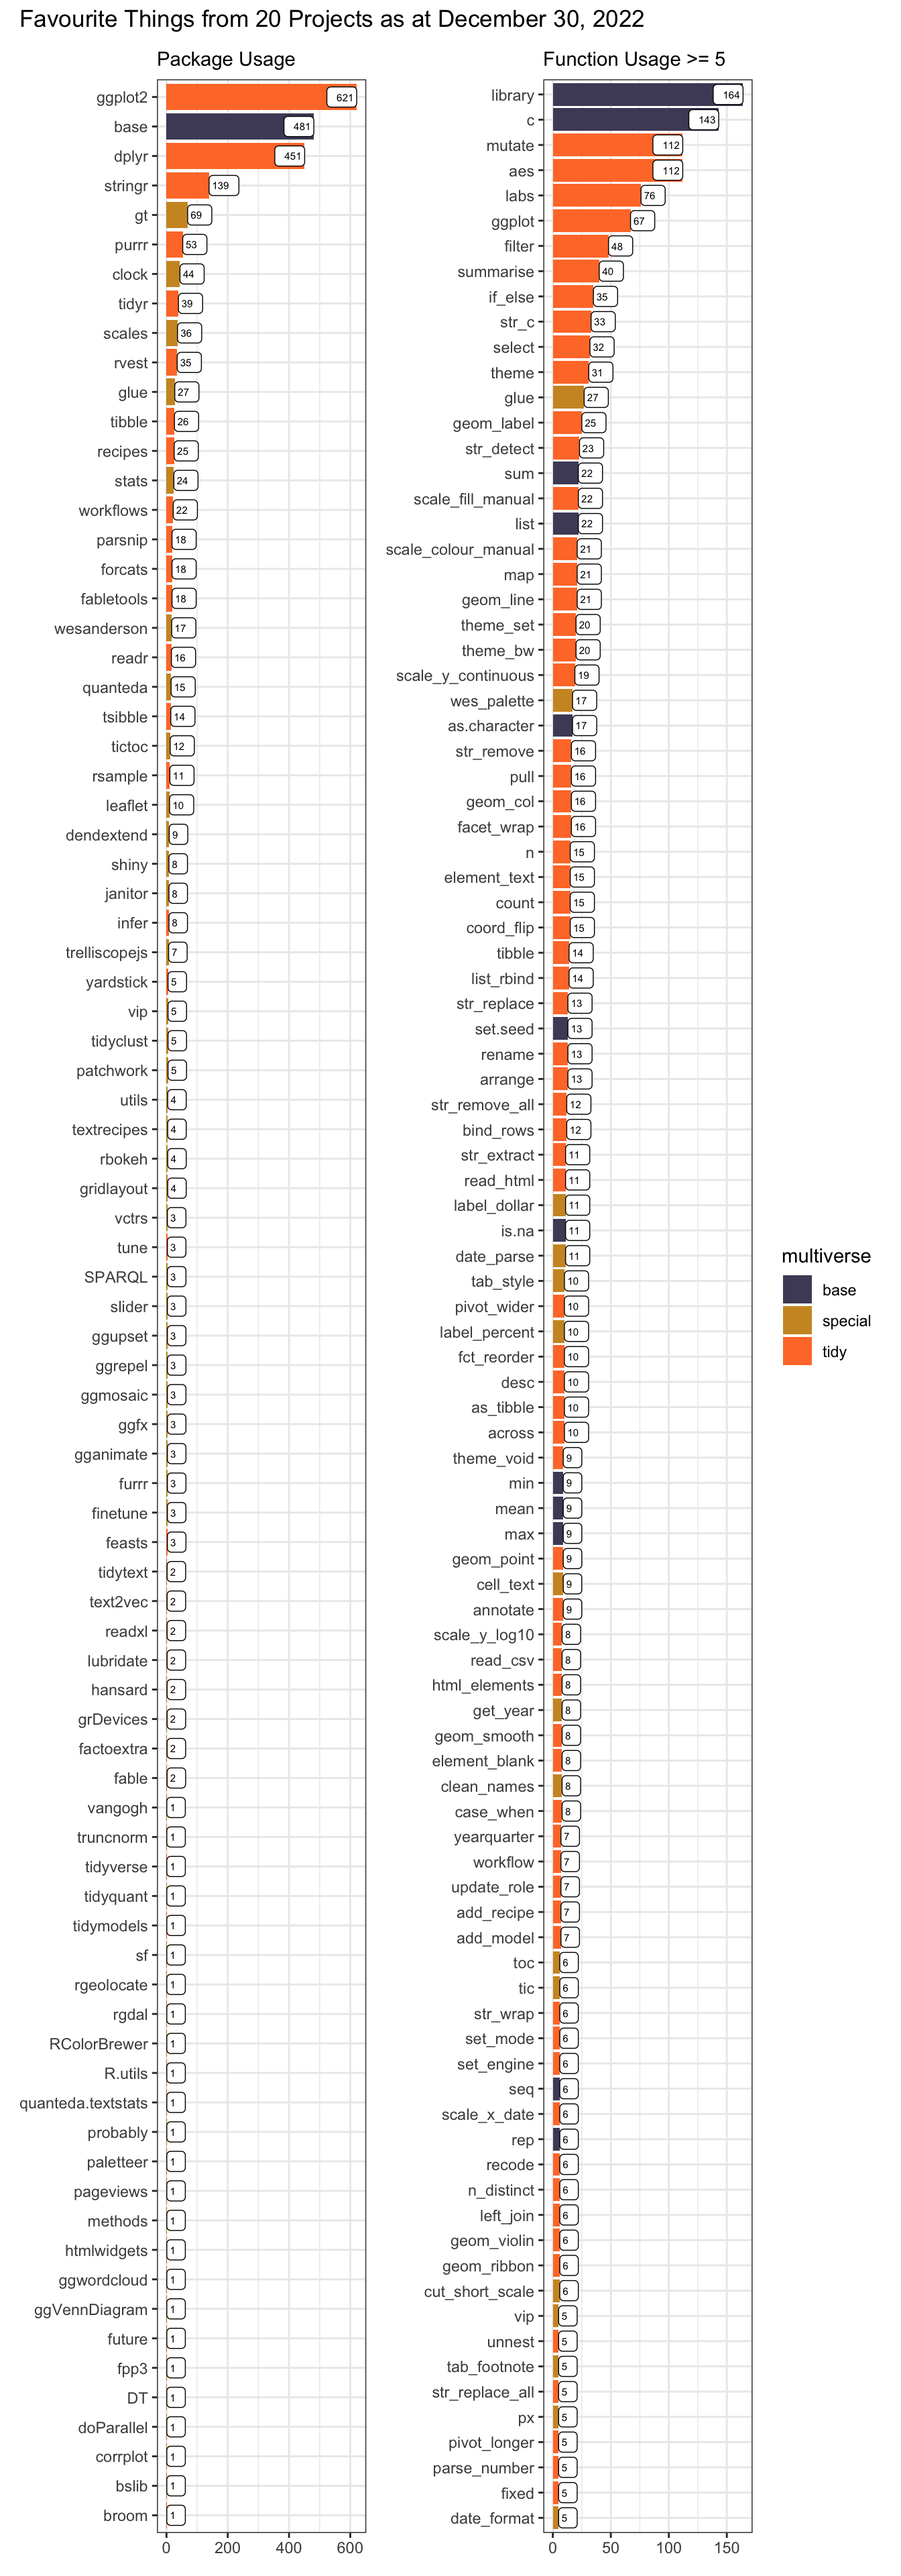
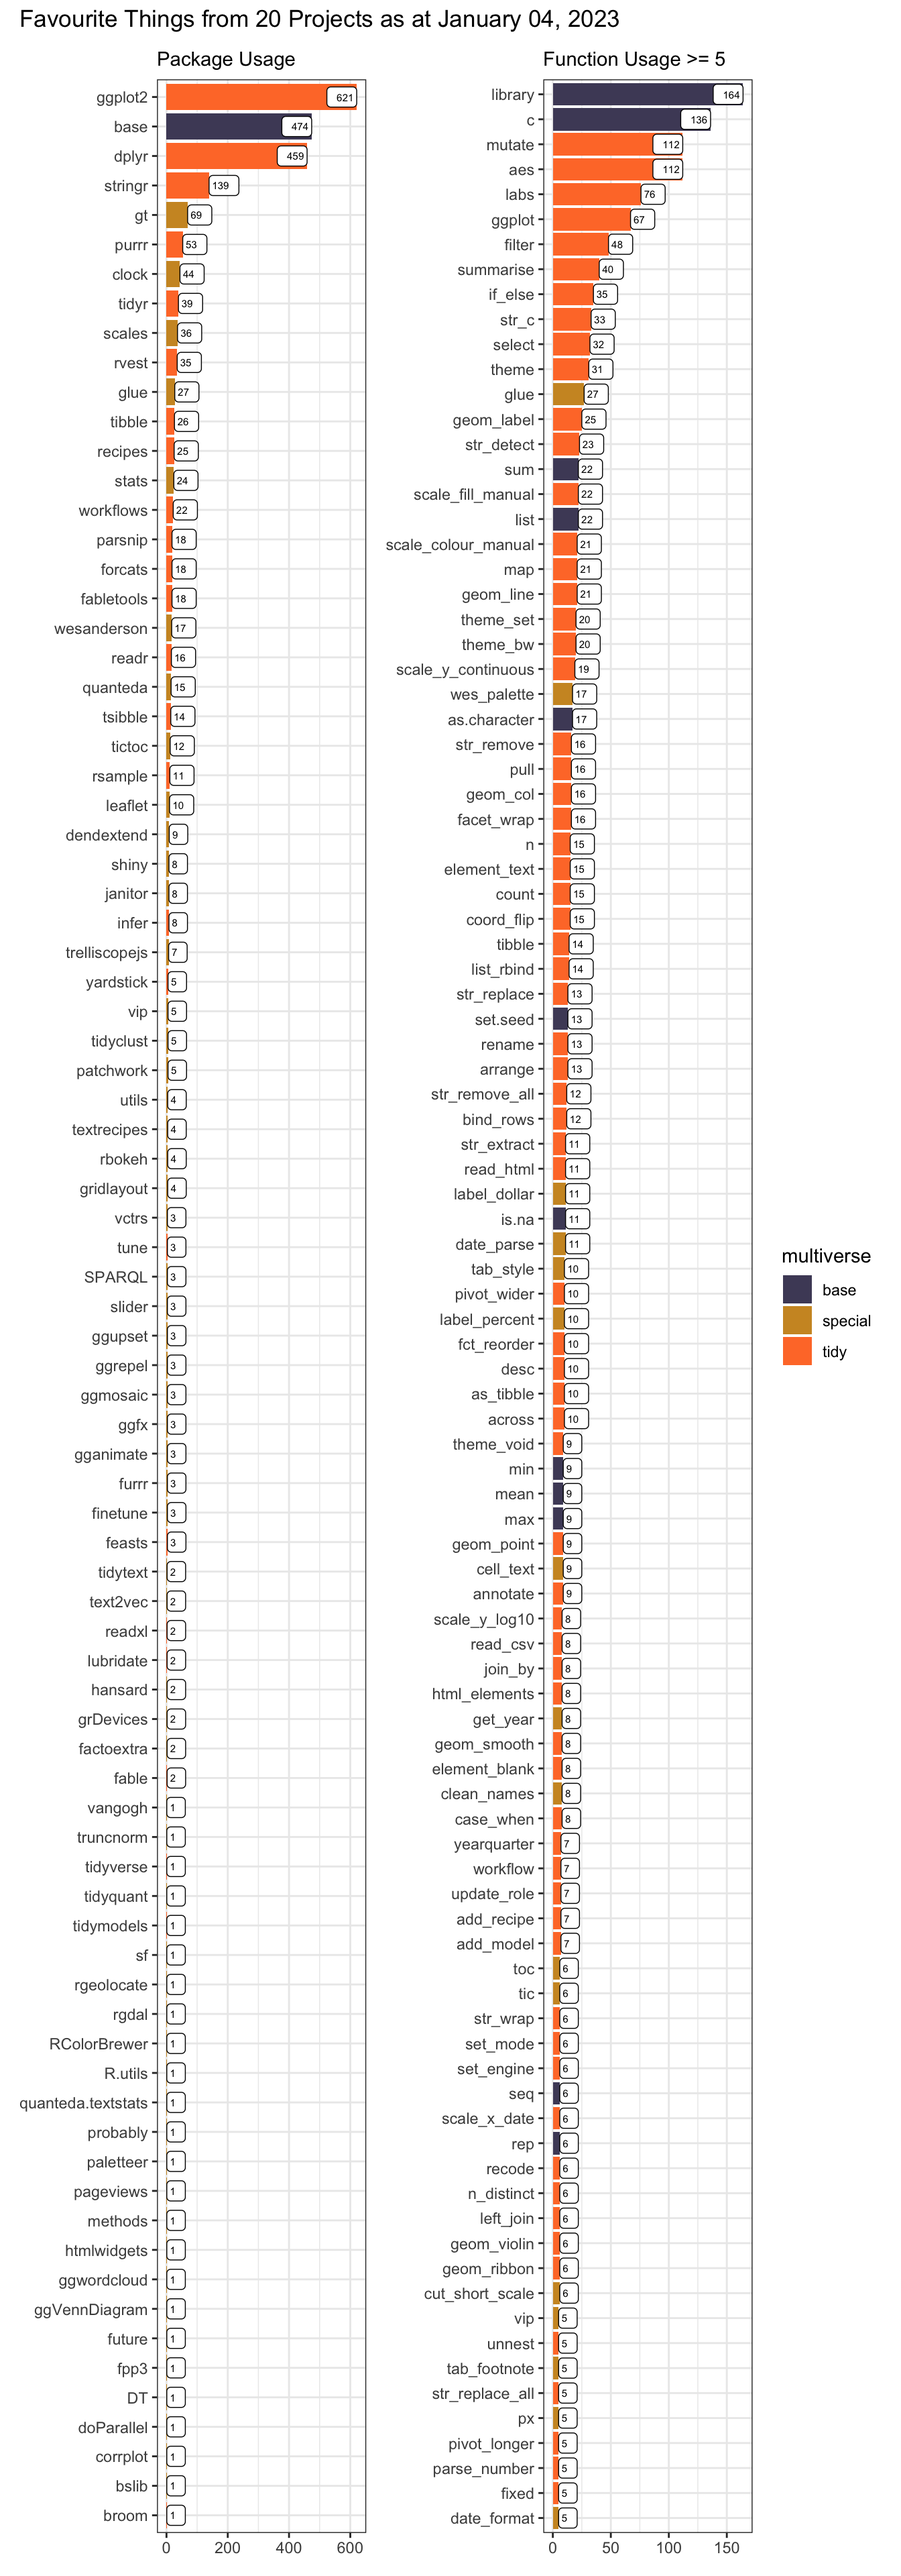
Use new join_by in dplyr joins

diff --git a/_site/project/box/index.html b/_site/project/box/index.html
@@ -224,7 +224,7 @@ code span.wa { color: #60a0b0; font-weight: bold; font-style: italic; } /* Warni
     <div>
     <div class="quarto-title-meta-heading">Modified</div>
     <div class="quarto-title-meta-contents">
-      <p class="date-modified">December 24, 2022</p>
+      <p class="date-modified">January 4, 2023</p>
     </div>
   </div>
     
@@ -240,7 +240,7 @@ code span.wa { color: #60a0b0; font-weight: bold; font-style: italic; } /* Warni
 <li><p>See where it would be most useful to keep an eye on package version updates</p></li>
 </ul>
 <p>Since starting this in 2017, functions like tidyr’s <code>spread</code> and <code>gather</code> have been superseded by <code>pivot_wider</code> and <code>pivot_longer</code>. Newer packages have emerged like <a href="https://github.com/EmilHvitfeldt/tidyclust">tidyclust</a>, which brings cluster modelling to tidymodels (now used in <a href="https://www.quantumjitter.com/project/happiness/">Finding Happiness in ‘The Smoke’</a>). <a href="https://rstudio.github.io/bslib/">bslib</a> has brought improvements to the latest shiny app version embedded in <a href="https://www.quantumjitter.com/project/thicken/">Plots Thicken</a>. The paletteer package has put it’s arms around the myriad palette packages out there. And scales’ <code>cut_short_scale</code> assisted with plot labelling.</p>
-<p>Most recently, the latest versions of dplyr and purrr have presented a host of enhancements. For example, the <code>.by</code> argument in <code>mutate</code> and friends offers a neat alternative to <code>group_by</code> and <code>ungroup</code> in many situations. And changes in the <code>map_</code> family introduce <code>list_rbind</code> and associates with <code>map_dfr</code>, for example, now superseded.</p>
+<p>Most recently, the latest versions of dplyr and purrr have presented a host of enhancements. For example, the <code>.by</code> argument in <code>mutate</code> and friends offers a neat alternative to <code>group_by</code> and <code>ungroup</code> in many situations. Joins have been enhanced (e.g.&nbsp;to support inequality conditions) with the addition of <code>join_by</code> to dplyr. And changes in the <code>map_</code> family introduce <code>list_rbind</code> and associates with <code>map_dfr</code>, for example, now superseded.</p>
 <div class="cell">
 <div class="sourceCode" id="cb1"><pre class="downlit sourceCode r code-with-copy"><code class="sourceCode R"><span><span class="kw"><a href="https://rdrr.io/r/base/library.html">library</a></span><span class="op">(</span><span class="va"><a href="https://tidyverse.tidyverse.org">tidyverse</a></span><span class="op">)</span></span>
 <span><span class="kw"><a href="https://rdrr.io/r/base/library.html">library</a></span><span class="op">(</span><span class="va"><a href="https://github.com/juliasilge/tidytext">tidytext</a></span><span class="op">)</span></span>
@@ -357,7 +357,7 @@ code span.wa { color: #60a0b0; font-weight: bold; font-style: italic; } /* Warni
 <span>  <span class="op">)</span></span></code><button title="Copy to Clipboard" class="code-copy-button"><i class="bi"></i></button></pre></div>
 </div>
 <p>Use of Quarto’s <code>{{&lt; include _foobar.qmd &gt;}}</code> has enabled the lifting, standardisation and simplification of the toolbox code. Previously this code (essentially replicated across the 20 projects) inflated the usage numbers.</p>
-<p>With the latest versions of dplyr and purrr, usage of <code>group_by</code>, <code>ungroup</code> and <code>map_dfr</code> has fallen away whilst <code>list_rbind</code> has newly appeared.</p>
+<p>With the latest versions of dplyr and purrr, usage of <code>group_by</code>, <code>ungroup</code> and <code>map_dfr</code> has fallen away whilst usage of <code>list_rbind</code> and <code>join_by</code> has freshly emerged.</p>
 <div class="cell">
 <div class="sourceCode" id="cb7"><pre class="downlit sourceCode r code-with-copy"><code class="sourceCode R"><span><span class="va">p1</span> <span class="op">&lt;-</span> <span class="va">packfun_df</span> <span class="op">|&gt;</span></span>
 <span>  <span class="fu"><a href="https://dplyr.tidyverse.org/reference/filter.html">filter</a></span><span class="op">(</span><span class="va">name</span> <span class="op">==</span> <span class="st">"package"</span><span class="op">)</span> <span class="op">|&gt;</span> </span>

diff --git a/_site/project/index.html b/_site/project/index.html
@@ -249,7 +249,7 @@ Nov 1, 2022
 </div>
 </a>
 </div>
-<div class="g-col-1" data-index="1" data-categories="R,dimension reduction,clustering,geospatial,machine learning" data-listing-date-sort="1647648000000" data-listing-file-modified-sort="1672142135059" data-listing-date-modified-sort="1672142135000" data-listing-reading-time-sort="9.12">
+<div class="g-col-1" data-index="1" data-categories="R,dimension reduction,clustering,geospatial,machine learning" data-listing-date-sort="1647648000000" data-listing-file-modified-sort="1672829674546" data-listing-date-modified-sort="1672829674000" data-listing-reading-time-sort="9.12">
 <a href="../project/happiness/index.html" class="quarto-grid-link">
 <div class="quarto-grid-item card h-100 card-left">
 <p class="card-img-top">
@@ -273,13 +273,13 @@ Mar 19, 2022
 </div>
 <div class="card-footer">
 <div class="card-file-modified listing-file-modified">
-<p>Dec 27, 2022</p>
+<p>Jan 4, 2023</p>
 </div>
 </div>
 </div>
 </a>
 </div>
-<div class="g-col-1" data-index="2" data-categories="R,statistical inference,regex,special effects,web scraping" data-listing-date-sort="1646697600000" data-listing-file-modified-sort="1671820738549" data-listing-date-modified-sort="1671820738000" data-listing-reading-time-sort="13.555">
+<div class="g-col-1" data-index="2" data-categories="R,statistical inference,regex,special effects,web scraping" data-listing-date-sort="1646697600000" data-listing-file-modified-sort="1672829491235" data-listing-date-modified-sort="1672829491000" data-listing-reading-time-sort="13.555">
 <a href="../project/bands/index.html" class="quarto-grid-link">
 <div class="quarto-grid-item card h-100 card-left">
 <p class="card-img-top">
@@ -303,7 +303,7 @@ Mar 8, 2022
 </div>
 <div class="card-footer">
 <div class="card-file-modified listing-file-modified">
-<p>Dec 23, 2022</p>
+<p>Jan 4, 2023</p>
 </div>
 </div>
 </div>
@@ -429,7 +429,7 @@ Aug 2, 2020
 </div>
 </a>
 </div>
-<div class="g-col-1" data-index="7" data-categories="R,web scraping" data-listing-date-sort="1595718000000" data-listing-file-modified-sort="1671904439418" data-listing-date-modified-sort="1671904439000" data-listing-reading-time-sort="5.31">
+<div class="g-col-1" data-index="7" data-categories="R,web scraping" data-listing-date-sort="1595718000000" data-listing-file-modified-sort="1672830246080" data-listing-date-modified-sort="1672830246000" data-listing-reading-time-sort="5.41">
 <a href="../project/box/index.html" class="quarto-grid-link">
 <div class="quarto-grid-item card h-100 card-left">
 <p class="card-img-top">
@@ -453,7 +453,7 @@ Jul 26, 2020
 </div>
 <div class="card-footer">
 <div class="card-file-modified listing-file-modified">
-<p>Dec 24, 2022</p>
+<p>Jan 4, 2023</p>
 </div>
 </div>
 </div>
